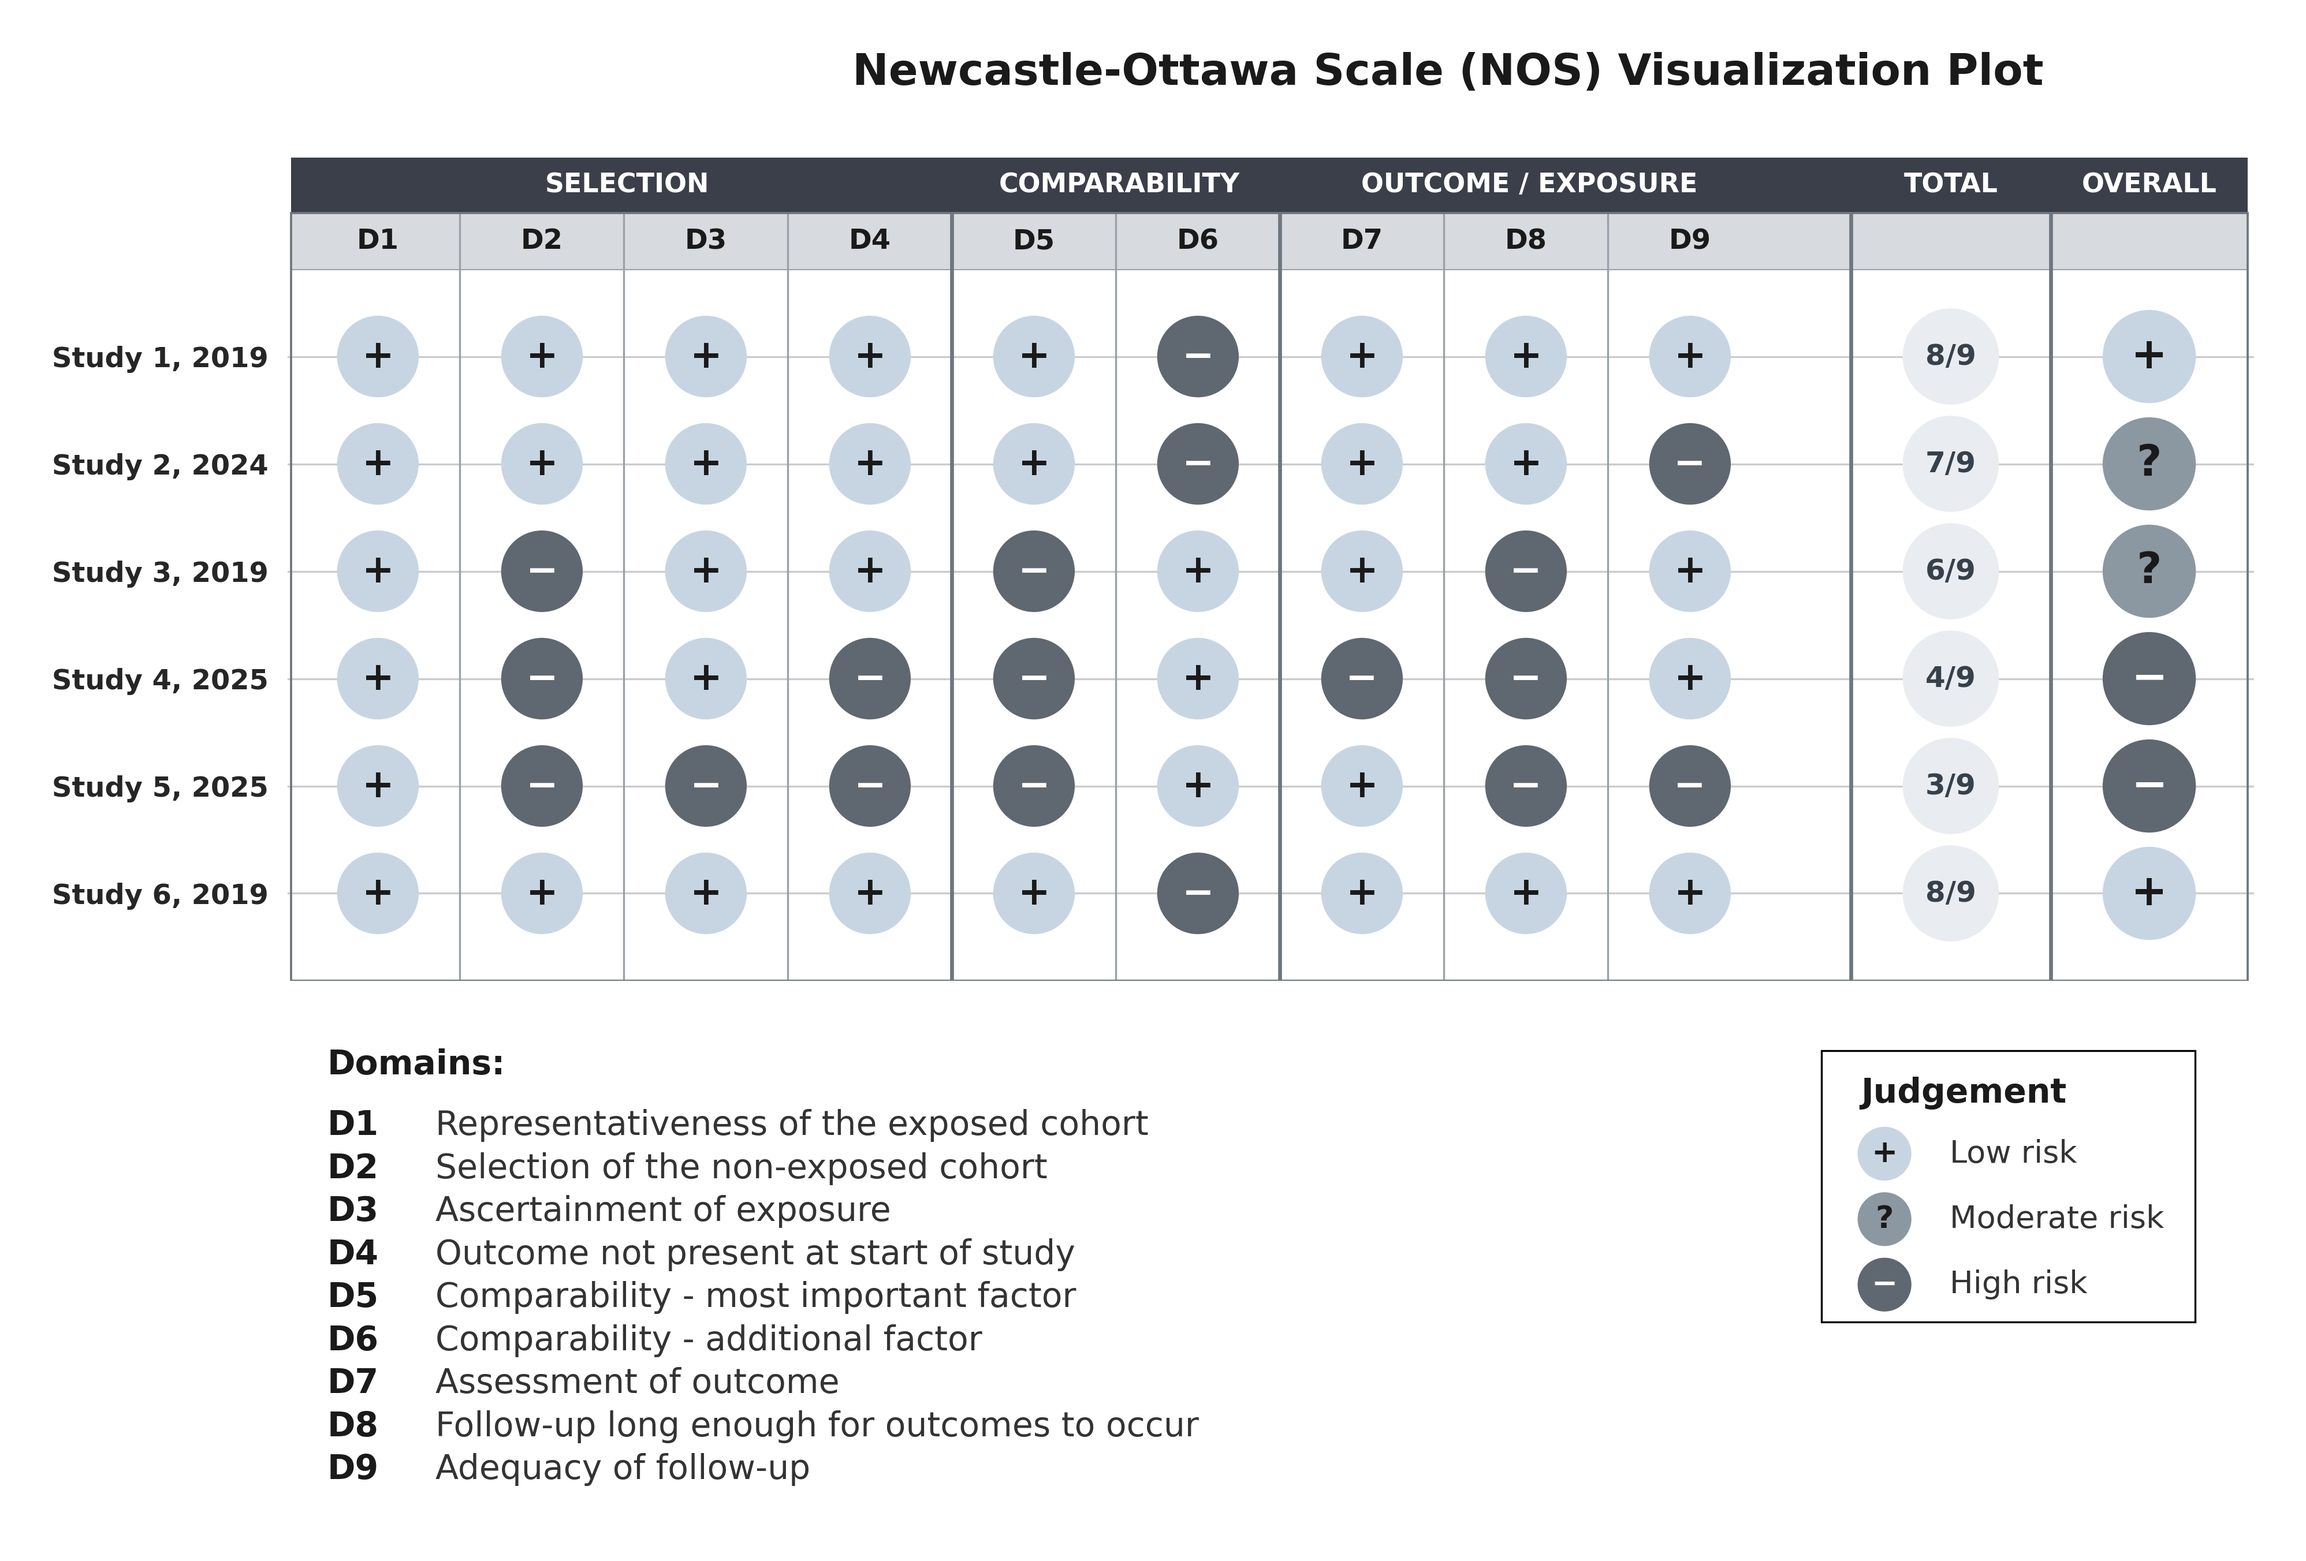
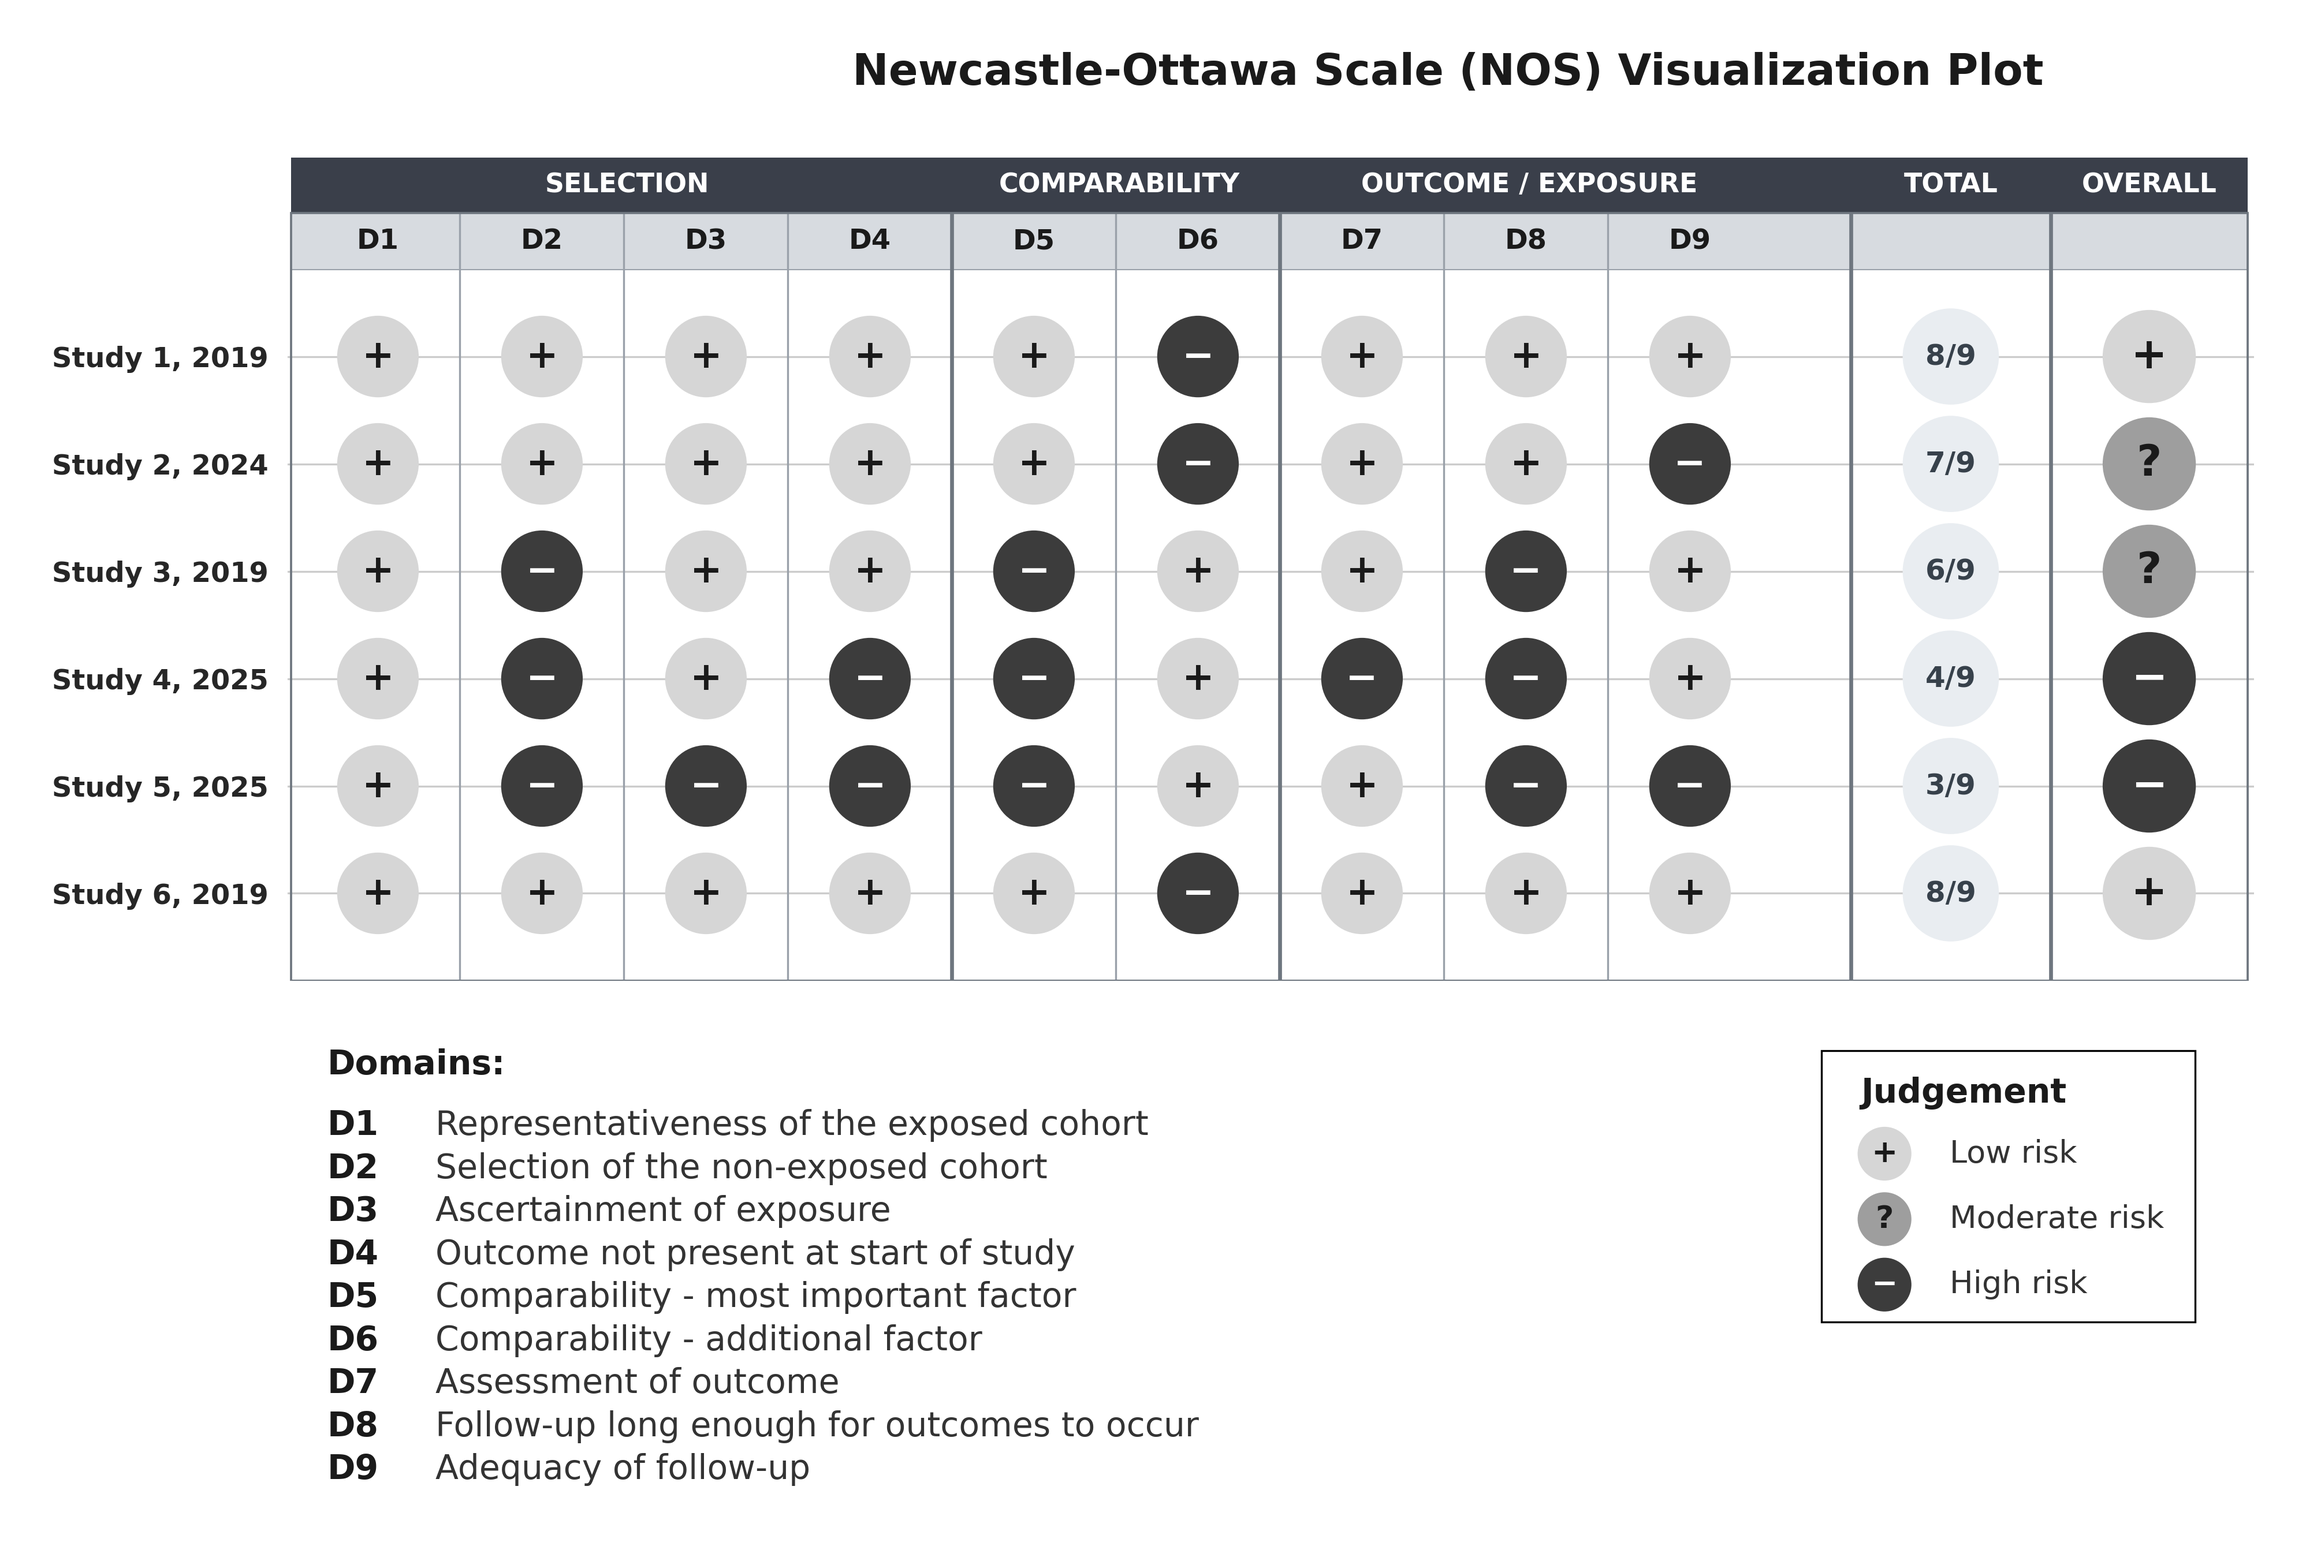
upload first then theme chooser, neutral gray palette with print-safe contrast

diff --git a/app.py b/app.py
@@ -335,8 +335,8 @@ All figures are **publication-ready**.
 
 st.markdown("### Upload Your Data")
 st.markdown('<p style="color: #f5f6fa; font-size: 1.1rem;">Upload a <b>CSV</b> or <b>Excel (.xlsx)</b> file.</p>', unsafe_allow_html=True)
-theme = st.selectbox("Select Plot Theme", options=["traffic_light", "gray", "ocean", "sage"])
 uploaded_file = st.file_uploader("Choose a CSV or Excel file", type=["csv","xls","xlsx"])
+theme = st.selectbox("Select Plot Theme", options=["traffic_light", "gray", "ocean", "sage"])
 
 if uploaded_file is not None:
     try:

diff --git a/nos_tlplot.py b/nos_tlplot.py
@@ -21,7 +21,7 @@ except ImportError:
 
 THEME_OPTIONS = {
     "traffic_light": {"Low":"#2E7D32", "Moderate":"#F9A825", "High":"#C62828"},  
-    "gray": {"Low":"#C7D5E2", "Moderate":"#8B98A1", "High":"#5F6770"},            
+    "gray": {"Low":"#D6D6D6", "Moderate":"#9E9E9E", "High":"#3C3C3C"},            
     "ocean": {"Low":"#6BAED6", "Moderate":"#2171B5", "High":"#08306B"},
     "sage": {"Low":"#63BF93", "Moderate":"#5B6D80", "High":"#FF884D"},
 }

diff --git a/README.md b/README.md
@@ -345,7 +345,7 @@ NOS-TLPlot ships with four colour themes - `traffic_light` (default), `gray`, `o
 | Theme | Low | Moderate | High |
 | ----- | --- | -------- | ---- |
 | `traffic_light` | `#2E7D32` | `#F9A825` | `#C62828` |
-| `gray` | `#C7D5E2` | `#8B98A1` | `#5F6770` |
+| `gray` | `#D6D6D6` | `#9E9E9E` | `#3C3C3C` |
 | `ocean` | `#6BAED6` | `#2171B5` | `#08306B` |
 | `sage` | `#63BF93` | `#5B6D80` | `#FF884D` |
 
